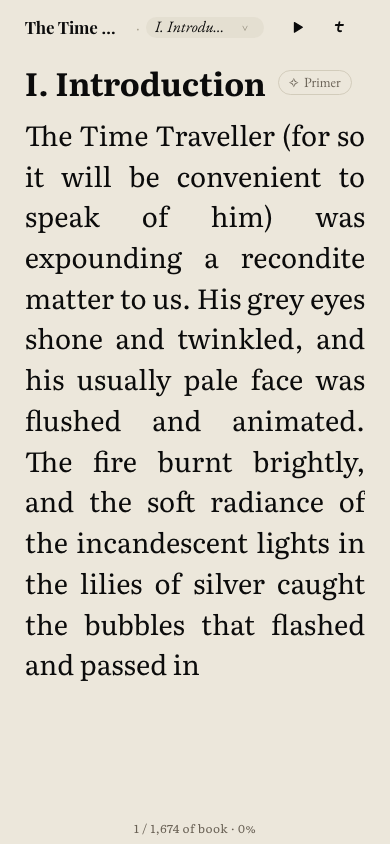
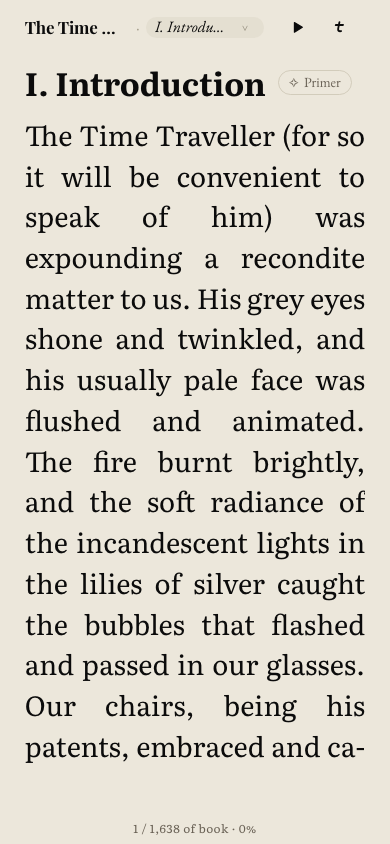
fix: preserve measured import pages and connect local companion routes

diff --git a/app/vite.config.ts b/app/vite.config.ts
@@ -29,6 +29,7 @@ export default defineConfig(({ mode, command }) => {
   }
   const env = loadEnv(mode, process.cwd(), '')
   const isCapacitor = process.env.CAPACITOR === 'true'
+  const readerPilot = mode === 'reader-pilot'
 
   // Cloudflare Workers Builds has no app/.env. These are public client values
   // already required by verify-bundle and present in the live browser bundle.
@@ -289,7 +290,9 @@ export default defineConfig(({ mode, command }) => {
           }
         })
 
-        server.middlewares.use('/api/chat', async (req: IncomingMessage, res: ServerResponse) => {
+        server.middlewares.use('/api/chat', async (req: IncomingMessage, res: ServerResponse, next: () => void) => {
+          // The reader pilot uses the production structured companion route.
+          if (readerPilot) { next(); return }
           if (req.method !== 'POST') {
             res.writeHead(405)
             res.end('Method not allowed')
@@ -393,6 +396,12 @@ export default defineConfig(({ mode, command }) => {
     },
   ],
   server: {
+    // Opt-in local preview: only the two companion routes are forwarded.
+    // No keys in the browser, no production deployment, no unrelated
+    // account or checkout routes proxied. Responses stream through the existing production API.
+    proxy: readerPilot ? {
+      '^/api/(chat|lab-chat)(?:\\?|$)': { target: 'https://tinct.app', changeOrigin: true },
+    } : undefined,
     port: 3001,
     // host: true binds to 0.0.0.0 so phones on the same WiFi can reach the
     // dev server (e.g. http://<mac-lan-ip>:3001). Safe in dev. If you ever

diff --git a/app/src/addbooks/readerHandoff.ts b/app/src/addbooks/readerHandoff.ts
@@ -1,4 +1,4 @@
-import { UNLISTED_READER_BOOKS } from '../data/readerBooks'
+import { UNLISTED_READER_BOOKS, isUnlistedReaderBook } from '../data/readerBooks'
 import { createReaderHandoffIntent, PRE_READER_CATALOGUE, type ReaderHandoffSelection, type ReaderHandoffBook } from '../preReader/catalogue'
 
 // The ordinary catalogue stays unchanged. Extend only the reader's validation
@@ -11,5 +11,11 @@ for (const book of UNLISTED_READER_BOOKS) {
   })) })
 }
 export function createOpenReaderIntent(selection: ReaderHandoffSelection) {
-  return createReaderHandoffIntent(selection, { booksById })
+  const intent = createReaderHandoffIntent(selection, { booksById })
+  // Imported prose uses the normal measured pages and saved-word restoration.
+  // The legacy exact-passage flag replaces measured maps with budget estimates
+  // (one paragraph per page when no budget exists). Also normalize old pilot
+  // handoffs and chapter deep links so they cannot reintroduce sparse pages.
+  if (intent && isUnlistedReaderBook(intent.bookId)) delete intent.startAtSavedPlace
+  return intent
 }

diff --git a/app/src/addbooks/readerPilot.test.ts b/app/src/addbooks/readerPilot.test.ts
@@ -38,6 +38,8 @@ describe('unlisted reader pilot', () => {
     expect(createOpenReaderIntent({ ...selection, savedPlace: { bookId: 'bible', chapterNumber: 1 } })).toBeNull()
     expect(createOpenReaderIntent({ ...selection, savedPlace: { bookId: 'pd-35', chapterNumber: -1 } })).toBeNull()
     const intent = readerHandoffFromUrlParams(new URLSearchParams('book=pd-35&chapter=2'))!
+    expect(intent).not.toHaveProperty('startAtSavedPlace')
+    expect(createOpenReaderIntent({ ...selection, startAtSavedPlace: true, savedPlace: { bookId: 'pd-35', chapterNumber: 1 } })).not.toHaveProperty('startAtSavedPlace')
     expect(pendingLabSourceForHandoff(intent)).toMatchObject({ bookId: 'pd-35', chapterNumber: 2, bookTitle: 'The Time Machine', paragraphs: [] })
   })
 

diff --git a/app/src/addbooks/AddBookPilot.tsx b/app/src/addbooks/AddBookPilot.tsx
@@ -26,7 +26,6 @@ export function AddBookPilot() {
         savedPlace: { bookId: book.id, chapterNumber,
           paragraphIndex: saved?.sequentialChapter === chapterNumber ? saved.paragraphIndex : 0,
           wordIndex: saved?.sequentialChapter === chapterNumber ? saved.wordIndex : 0 },
-        startAtSavedPlace: true,
       })
       if (!handoff) throw new Error('Cannot open this edition')
       // A one-use handoff opens the real reader. Nothing enters the library.

diff --git a/addbooks/READER-PILOT.md b/addbooks/READER-PILOT.md
@@ -39,7 +39,7 @@ npm test
 CI=true npm run build
 npm run verify-bundle
 node ../addbooks/scripts/verify-reader-pilot.mjs
-npm run dev -- --host 127.0.0.1 --port 4174 --strictPort
+npm run dev -- --mode reader-pilot --host 127.0.0.1 --port 4174 --strictPort
 ```
 
 `CI=true` uses the repository's existing public client configuration for the production build. Local preview: http://127.0.0.1:4174/reader?add=1
@@ -50,14 +50,20 @@ The browser test starts an ephemeral localhost server for `app/dist`, launches i
 
 - Baseline: 2,929 tests passed, one skipped.
 - Final: 2,933 tests passed, one skipped; production build and `verify-bundle` passed.
-- Verified bundle: `index-C16r94Pg.js`.
-- Desktop 1365×900 and phone 390×844: Add, failed-download retry, complete contents, chapter selection, page turn, reload/resume, repeated Add and epilogue. No horizontal overflow or page errors.
-- Screenshots capture the actual reader from the locally served production build. No production API or LLM requests were made.
+- Verified bundle: `index-DXjuGmzJ.js`.
+- Desktop 1365×900 and phone 390×844: Add, failed-download retry, complete contents, chapter selection, page turns with consecutive source-word boundaries, short paragraphs sharing a page, reload/resume, repeated Add and epilogue. Explain selection was exercised with a labelled mock streaming response. No horizontal overflow or page errors.
+- Screenshots capture the actual reader from the locally served production build. No LLM requests were made. The production companion routes were checked with GET requests (405 Method not allowed), which return before provider invocation.
+
+## Local companion service and corrected pagination
+
+Use the `reader-pilot` Vite mode in the command above. It forwards only `/api/chat` and `/api/lab-chat` to the existing service at `https://tinct.app`, preserving streaming. Plain Vite mode has a legacy chat handler and no guest companion endpoint, which caused Explain to fail in the initial preview. No API keys are placed in browser code; production retains its usual authentication, rate limits and usage charging. User-triggered companion requests use that service and its normal allowance. Automated QA substitutes labelled responses and does not invoke an LLM. This mode does not enable narration, voice sessions or unavailable editions.
+
+The initial Add handoff incorrectly set `startAtSavedPlace`, a legacy exact-passage mode that replaced measured pages with rough budget estimates. At startup those estimates could be one paragraph per page. Unlisted handoffs now keep the normal measured page map and restore by saved source word. This also normalizes old handoffs and unlisted chapter links. Existing published-book passage behavior remains unchanged.
 
 ## Boundaries and follow-up
 
 This proves a single book can pass through conversion and into the real reader without public-library publication. Runtime Add loads the already converted edition; it does not convert a new catalogue selection on demand. The large standalone search prototype remains on `codex/addbooks-search-prototype` and is not wired into this first import pilot.
 
-Unlisted assets are accessible to anyone who knows their URL. This is not private file storage or an authenticated private library. Existing reading-position storage is reused; no Supabase schema, Worker, API, CI, dependency, taxonomy or registry changes were required. Browser QA verifies guest/local position persistence. Signed-in cross-device sync, offline installation, native Android and AI companion behavior were not tested. Narration is explicitly unavailable for the unlisted book, and its contents menu does not link to a nonexistent library introduction.
+Unlisted assets are accessible to anyone who knows their URL. This is not private file storage or an authenticated private library. Existing reading-position storage is reused; no Supabase schema, Worker, API, CI, dependency, taxonomy or registry changes were required. Browser QA verifies guest/local position persistence. Signed-in cross-device sync, offline installation, native Android and live AI generation were not tested. Explain UI and structured request context were checked with mocked provider responses. Narration is explicitly unavailable for the unlisted book, and its contents menu does not link to a nonexistent library introduction.
 
 Next: approve and verify the unlisted live release; connect one search result to this flow; generalize the converter with source-specific structural checks and immutable source/edition IDs. Only then add durable import jobs, private ownership where needed, source-rights gating and broader book formats. Public-library publication remains a separate decision.
